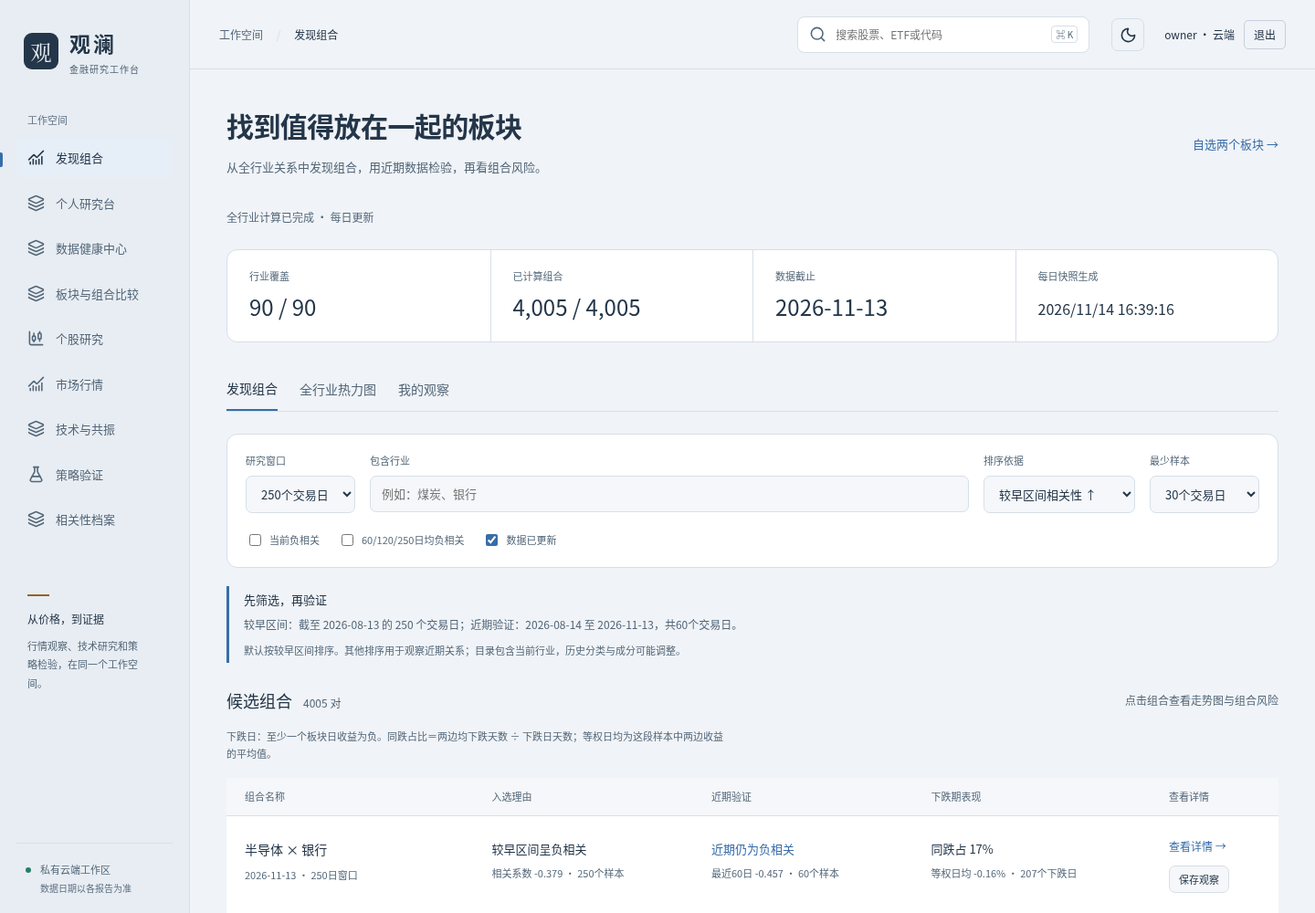
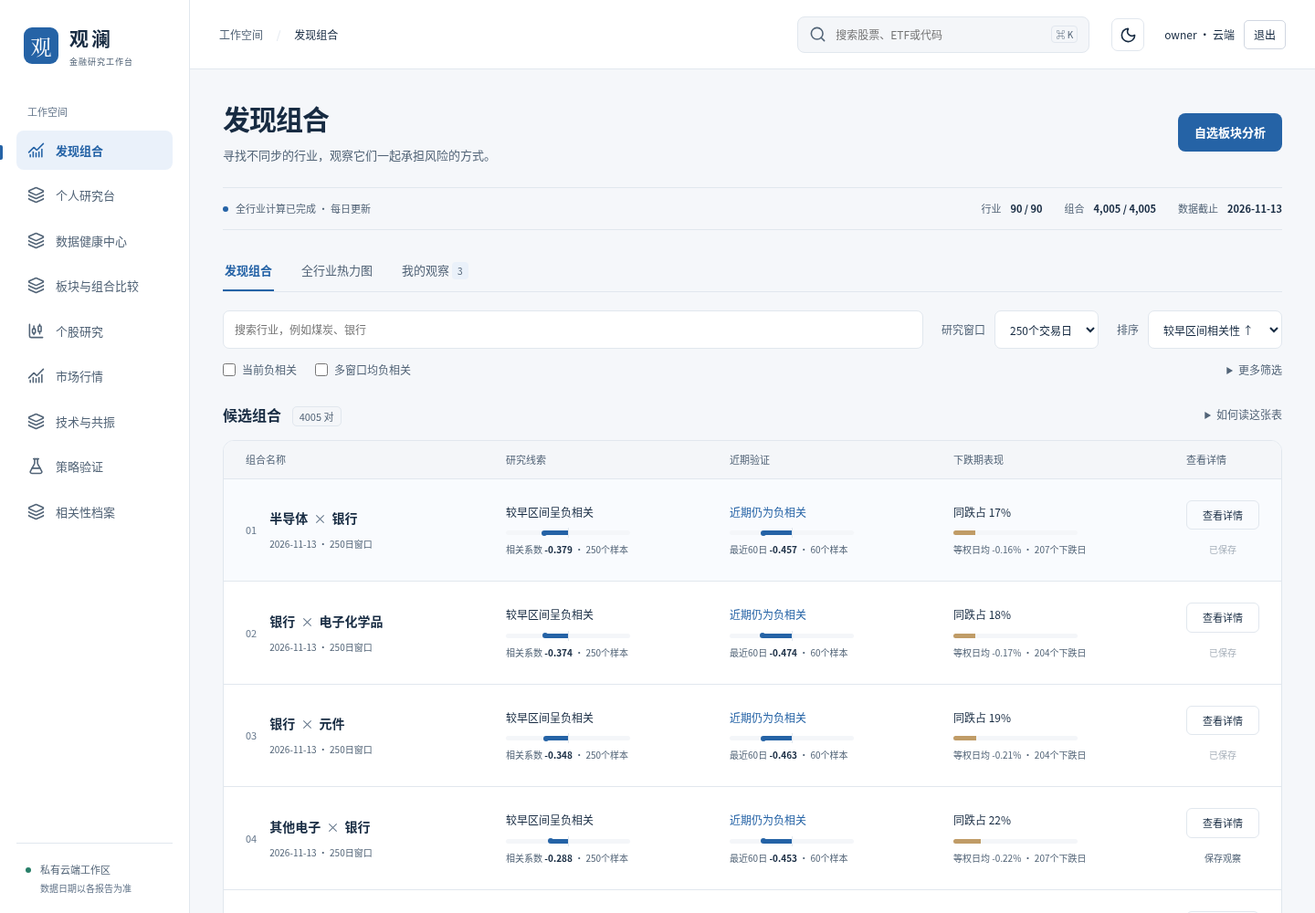
Redesign discovery research workspace with compact filters and visual evidence

diff --git a/app/static/discover/discover.css b/app/static/discover/discover.css
@@ -1,8 +1,4 @@
-.terminal-app .discovery-workspace{max-width:1440px;margin:76px 0 0 var(--ui-nav);padding:32px 40px 48px}.discovery-heading,.results-heading{display:flex;align-items:center;justify-content:space-between;gap:24px}.discovery-heading h1{font-size:30px;font-weight:600;letter-spacing:-.02em;margin:8px 0 12px}.discovery-heading p,.results-heading p{font-size:13px;line-height:1.8;color:var(--ui-muted)}.eyebrow{font-size:11px!important;letter-spacing:.12em}.discovery-heading>a{font-size:13px;white-space:nowrap}#discovery-status{font-size:12px;line-height:1.8;color:var(--ui-muted);margin:20px 0}.coverage{display:grid;grid-template-columns:1fr 1fr 1fr 1fr;border:1px solid var(--ui-border);background:var(--ui-panel);border-radius:12px;margin:24px 0}.coverage article{padding:20px 24px}.coverage article+article{border-left:1px solid var(--ui-border)}.coverage span{display:block;font-size:11px;color:var(--ui-muted)}.coverage strong{display:block;font-size:24px;font-weight:500;font-variant-numeric:tabular-nums;margin-top:8px}.coverage article:last-child strong{font-size:16px;margin-top:16px}.view-tabs{display:flex;border-bottom:1px solid var(--ui-border);gap:24px;margin:28px 0 24px}.view-tabs button{border:0;border-radius:0;background:transparent;padding:12px 0;color:var(--ui-muted);font-size:14px}.view-tabs button[aria-pressed=true]{color:var(--ui-text);border-bottom:2px solid var(--ui-accent)}#filters{display:flex;gap:16px;flex-wrap:wrap;padding:20px;background:var(--ui-panel);border:1px solid var(--ui-border);border-radius:12px}#filters label,#matrix label{font-size:11px;color:var(--ui-muted)}#filters select,#filters input:not([type=checkbox]),#matrix select{display:block;margin-top:8px;font-size:13px;min-height:40px}.search-label{flex:1;min-width:160px}.search-label input{width:100%}.checks{display:flex;gap:20px;width:100%;padding-top:4px;flex-wrap:wrap}.checks label{display:flex;align-items:center;gap:6px}.checks input{accent-color:var(--ui-accent)}.reading-guide{margin:20px 0 28px;border-left:3px solid var(--ui-accent);padding:4px 0 4px 16px}.reading-guide strong{font-size:13px;font-weight:500}.reading-guide p{font-size:12px;line-height:1.8;color:var(--ui-muted);margin:6px 0}.reading-guide small{font-size:11px;color:var(--ui-muted)}.results-heading{margin:24px 0 16px}.results-heading h2{font-size:18px;font-weight:500;margin:0}.results-heading>span,#result-count{font-size:12px;color:var(--ui-muted);margin-left:8px}.pair-row,.pair-header{display:grid;grid-template-columns:minmax(220px,1.7fr) repeat(3,minmax(80px,.7fr)) minmax(130px,1fr) 70px;align-items:center;gap:16px;padding:18px 20px;border-bottom:1px solid var(--ui-border)}.pair-header{font-size:11px;color:var(--ui-muted);background:var(--ui-panel-2);padding:12px 20px}.pair-row{background:var(--ui-panel);font-size:13px}.pair-row:hover{background:var(--ui-panel-2)}.pair-row a{color:var(--ui-text);font-weight:500}.pair-row small{display:block;color:var(--ui-muted);font-size:11px;line-height:1.7;margin-top:6px}.pair-row .value{font-size:19px;font-variant-numeric:tabular-nums;font-weight:500}.pair-row .negative{color:var(--ui-accent)}.pair-row .positive{color:var(--ui-gold)}.pair-row button{font-size:12px;padding:6px 10px}.cell-label{display:none}.pagination{display:flex;justify-content:flex-end;align-items:center;gap:16px;margin-top:20px;font-size:12px;color:var(--ui-muted)}.pagination button{font-size:12px}.source-details{margin-top:28px;padding:20px 0;border-top:1px solid var(--ui-border);color:var(--ui-muted);font-size:12px;line-height:1.8}.source-details summary{cursor:pointer}.source-details ul{max-height:220px;overflow:auto}.empty-result{padding:48px 24px;text-align:center;background:var(--ui-panel);border:1px dashed var(--ui-border);border-radius:12px;color:var(--ui-muted);font-size:14px}.matrix-legend{display:flex;align-items:center;gap:12px;font-size:12px;color:var(--ui-muted);margin:20px 0}.matrix-legend i{display:block;width:180px;height:8px;border-radius:4px;background:linear-gradient(90deg,#386da8,#eff2f6,#a4772d)}#matrix-scroll{overflow:auto;max-height:720px;border:1px solid var(--ui-border);background:var(--ui-panel);border-radius:12px}#matrix-canvas{display:block;cursor:crosshair}#matrix-readout{font-size:13px;color:var(--ui-muted);line-height:1.8}.watch-card{padding:24px;background:var(--ui-panel);border:1px solid var(--ui-border);border-radius:12px;margin-bottom:16px}.watch-card header{display:flex;justify-content:space-between;gap:16px;align-items:center}.watch-card header a{font-size:17px;font-weight:500}.watch-card p{font-size:13px;color:var(--ui-muted);line-height:1.8}.watch-card button{font-size:12px}.alert-row{border-left:3px solid var(--ui-gold);padding:8px 12px;font-size:13px;margin:8px 0}.alert-row.read{border-color:var(--ui-border);color:var(--ui-muted)}.watch-actions{display:flex;gap:8px}.watch-count{color:var(--ui-accent)}
-@media(max-width:1150px){.terminal-app .discovery-workspace{padding:24px}.pair-row,.pair-header{gap:12px;padding:16px 12px;grid-template-columns:minmax(160px,1.5fr) repeat(3,minmax(55px,.6fr)) minmax(95px,1fr) 56px}.coverage article{padding:16px}.coverage strong{font-size:20px}}
-@media(max-width:760px){.terminal-app .discovery-workspace{margin:64px 0 0;padding:24px 16px}.discovery-heading{display:block}.discovery-heading h1{font-size:26px}.coverage{grid-template-columns:1fr 1fr}.coverage article:nth-child(3){border-left:0}.coverage article:nth-child(n+3){border-top:1px solid var(--ui-border)}.view-tabs{gap:24px}.view-tabs button{font-size:13px}#filters{gap:12px;padding:16px}#filters>label{flex:1;min-width:120px}#filters select{width:100%}.checks{gap:12px}.results-heading{align-items:flex-start}.results-heading>span{display:none}.pair-header{display:none}.pair-row{grid-template-columns:1fr 1fr 1fr;gap:16px;padding:20px 16px;border:1px solid var(--ui-border);border-radius:12px;margin-bottom:12px}.pair-name{grid-column:1/-1}.pair-row .value{font-size:21px}.cell-label{display:block;font-size:10px;color:var(--ui-muted);margin-bottom:8px}.pair-state{grid-column:1/3;font-size:12px}.pair-row button{justify-self:end}.watch-card{padding:20px}.watch-card header{align-items:flex-start;flex-direction:column}.watch-actions{align-self:flex-end}.results-heading p{font-size:12px}.matrix-legend{font-size:11px}}
-/* Readable research rows: rationale, recent evidence and downside behavior. */
-.pair-row,.pair-header{grid-template-columns:minmax(180px,1.25fr) minmax(160px,1.1fr) minmax(160px,1.1fr) minmax(180px,1.2fr) 100px;gap:20px}.pair-row{padding-top:24px;padding-bottom:24px;align-items:start}.research-cell strong{font-size:13px;font-weight:500;line-height:1.8}.pair-name a{font-size:14px;line-height:1.8}.pair-row small{line-height:1.8}.pair-actions{display:flex;flex-direction:column;align-items:flex-start;gap:12px}.pair-actions .detail-link{color:var(--ui-accent);font-size:12px;white-space:nowrap}.pair-actions button{font-size:11px}.downside-definition{font-size:11px;line-height:1.8;color:var(--ui-muted);margin:0 0 16px;max-width:90ch}
-@media(max-width:1150px){.pair-row,.pair-header{grid-template-columns:minmax(120px,1.1fr) minmax(120px,1fr) minmax(120px,1fr) minmax(145px,1.1fr) 86px;gap:12px}.pair-name a{font-size:13px}.research-cell strong{font-size:12px}}
-@media(max-width:760px){.pair-row{grid-template-columns:1fr;gap:16px;padding:20px}.pair-name{grid-column:auto;border-bottom:1px solid var(--ui-border);padding-bottom:16px}.pair-name a{font-size:17px}.research-cell{display:grid;grid-template-columns:88px minmax(0,1fr);gap:0 12px;align-items:baseline}.research-cell .cell-label{font-size:11px;margin:0;grid-row:1/3}.research-cell strong{font-size:13px}.research-cell small{grid-column:2;margin-top:4px}.pair-actions{flex-direction:row;align-items:center;justify-content:space-between;border-top:1px solid var(--ui-border);padding-top:16px}.pair-actions .detail-link{font-size:13px}.pair-header{display:none}}
-@media(min-width:761px){.pair-row,.pair-header{grid-template-columns:minmax(0,1.25fr) minmax(0,1.1fr) minmax(0,1.1fr) minmax(0,1.2fr) 86px}.pair-row>div{min-width:0;overflow-wrap:anywhere}}
+/* Research desk: compact context, aligned evidence, one primary action. */
+.terminal-app .discovery-workspace{max-width:1680px;margin:76px 0 0 var(--ui-nav);padding:32px 36px 40px}.discovery-heading{display:flex;justify-content:space-between;align-items:center;gap:24px;margin-bottom:24px}.discovery-heading h1{font-size:30px;font-weight:650;letter-spacing:-1px;margin:0 0 8px}.discovery-heading p{font-size:13px;color:var(--ui-muted);margin:0;line-height:1.8}.discovery-heading>a{display:inline-flex;align-items:center;min-height:42px;padding:10px 18px;background:var(--ui-accent);color:var(--ui-panel);border-radius:8px;white-space:nowrap;font-size:13px;font-weight:550}.discovery-heading>a:hover{text-decoration:none;filter:brightness(.93)}.coverage{display:flex;align-items:center;gap:24px;padding:14px 0;border-top:1px solid var(--ui-border);border-bottom:1px solid var(--ui-border);font-size:11px;color:var(--ui-muted)}.sync-state{display:flex;align-items:center;gap:8px;margin-right:auto;min-width:0}.status-dot{width:6px;height:6px;border-radius:50%;background:var(--ui-accent);flex:none}.coverage article{display:flex;gap:10px;white-space:nowrap}.coverage strong{font-weight:550;color:var(--ui-text);font-variant-numeric:tabular-nums}.view-tabs{display:flex;gap:28px;margin:22px 0 0;border-bottom:1px solid var(--ui-border)}.view-tabs button{font-size:13px;border:0;border-bottom:2px solid transparent;background:transparent;border-radius:0;padding:12px 2px;color:var(--ui-muted)}.view-tabs button[aria-pressed=true]{color:var(--ui-accent);border-bottom-color:var(--ui-accent);font-weight:600}#watch-count:not(:empty){background:var(--ui-accent-soft);padding:2px 6px;border-radius:4px;font-size:10px}#filters{padding:20px 0 16px}.primary-filters{display:flex;align-items:center;gap:20px}.primary-filters>label{display:flex;align-items:center;gap:10px;white-space:nowrap;font-size:12px}.primary-filters .search-label{flex:1}.primary-filters input{width:100%;min-height:42px;background:var(--ui-panel)}.primary-filters select{font-size:12px;min-height:42px;background:var(--ui-panel)}.filter-options{display:flex;align-items:center;justify-content:space-between;margin-top:14px;gap:16px}.checks{display:flex;gap:20px;flex-wrap:wrap}.checks label{display:flex;align-items:center;gap:7px;font-size:12px}.checks input,.advanced-filters input{accent-color:var(--ui-accent);width:14px;height:14px;margin:0}.advanced-filters,.method-guide{position:relative}.advanced-filters summary,.method-guide summary{cursor:pointer;font-size:12px;white-space:nowrap}.advanced-filters>div,.method-guide>div{position:absolute;right:0;top:30px;z-index:10;background:var(--ui-panel);border:1px solid var(--ui-border);box-shadow:var(--ui-shadow);border-radius:10px;padding:20px;width:340px;max-width:calc(100vw - 32px);font-size:12px;line-height:1.9}.advanced-filters>div{display:grid;gap:16px;width:260px}.advanced-filters label{display:flex;gap:10px;align-items:center}.advanced-filters select{font-size:12px}.results-heading{display:flex;align-items:center;justify-content:space-between;gap:16px;margin:12px 0 16px}.results-heading h2{font-size:16px;margin:0;font-weight:600}.results-heading p{font-size:12px;color:var(--ui-muted)}#result-count{font-size:11px;font-weight:400;background:var(--ui-panel-2);border:1px solid var(--ui-border);border-radius:5px;padding:2px 7px;margin-left:8px;color:var(--ui-muted)}.method-guide p{margin:0 0 12px}.method-guide p:last-child{margin-bottom:0}#pair-list{border:1px solid var(--ui-border);border-radius:12px;overflow:hidden;background:var(--ui-panel)}.pair-row,.pair-header{display:grid;grid-template-columns:minmax(0,1.3fr) minmax(0,1.1fr) minmax(0,1.1fr) minmax(0,1.15fr) 80px;gap:24px;align-items:center;padding:23px 24px}.pair-header{padding-top:12px;padding-bottom:12px;background:var(--ui-panel-2);font-size:11px;color:var(--ui-muted);border-bottom:1px solid var(--ui-border)}.pair-row+.pair-row{border-top:1px solid var(--ui-border)}.pair-row:hover{background:color-mix(in srgb,var(--ui-accent-soft) 28%,var(--ui-panel))}.pair-row>div{min-width:0}.pair-name{display:flex;align-items:center;gap:14px}.pair-rank{font-size:11px;color:var(--ui-subtle);font-variant-numeric:tabular-nums;flex:none}.pair-name a{font-size:14px;font-weight:600;color:var(--ui-text);line-height:1.7}.pair-name a span{color:var(--ui-subtle);font-weight:400;margin:0 3px}.pair-row small{display:block;font-size:10px;color:var(--ui-muted);line-height:1.8;margin-top:7px}.pair-row small b{font-weight:550;color:var(--ui-text);font-variant-numeric:tabular-nums}.research-cell strong{font-size:12px;font-weight:500;line-height:1.8}.cell-label{display:none}.terminal-app .research-cell .negative{color:var(--ui-accent)}.terminal-app .research-cell .positive{color:var(--ui-gold)}.correlation-track{display:block;position:relative;width:100%;max-width:136px;height:5px;background:var(--ui-panel-2);border-radius:3px;margin-top:10px}.correlation-track .zero{position:absolute;left:50%;top:-3px;width:1px;height:11px;background:var(--ui-border)}.correlation-track .range{position:absolute;height:5px;top:0}.correlation-track .inverse{background:var(--ui-accent)}.correlation-track .together{background:var(--ui-gold)}.correlation-track .marker{position:absolute;width:6px;height:6px;border-radius:50%;top:-.5px;transform:translateX(-50%)}.downside-track{display:block;width:100%;max-width:136px;height:5px;border-radius:3px;background:var(--ui-panel-2);margin-top:10px;overflow:hidden}.downside-track i{display:block;height:100%;background:var(--ui-gold);opacity:.65}.pair-actions{display:flex;flex-direction:column;gap:10px;align-items:stretch;text-align:center}.pair-actions .detail-link{border:1px solid var(--ui-border);padding:7px 9px;border-radius:6px;font-size:11px;color:var(--ui-text);font-weight:500;white-space:nowrap}.pair-actions .detail-link:hover{background:var(--ui-accent);color:var(--ui-panel);border-color:var(--ui-accent);text-decoration:none}.pair-actions button{font-size:10px;border:0;background:transparent;color:var(--ui-muted);padding:4px}.pagination{display:flex;justify-content:flex-end;align-items:center;gap:16px;margin-top:20px;font-size:12px;color:var(--ui-muted)}.pagination button{font-size:12px}.source-details{margin-top:28px;padding:20px 0;border-top:1px solid var(--ui-border);color:var(--ui-muted);font-size:12px;line-height:1.8}.source-details summary{cursor:pointer}.source-details ul{max-height:220px;overflow:auto}.empty-result{padding:48px 24px;text-align:center;color:var(--ui-muted);font-size:14px}.matrix-legend{display:flex;align-items:center;gap:12px;font-size:12px;color:var(--ui-muted);margin:20px 0}.matrix-legend i{display:block;width:180px;height:8px;border-radius:4px;background:linear-gradient(90deg,#386da8,#eff2f6,#a4772d)}#matrix-scroll{overflow:auto;max-height:720px;border:1px solid var(--ui-border);background:var(--ui-panel);border-radius:12px}#matrix-canvas{display:block;cursor:crosshair}#matrix-readout{font-size:13px;color:var(--ui-muted);line-height:1.8}.watch-card{padding:24px;background:var(--ui-panel);border:1px solid var(--ui-border);border-radius:12px;margin-bottom:16px}.watch-card header{display:flex;justify-content:space-between;gap:16px;align-items:center}.watch-card header a{font-size:17px;font-weight:500}.watch-card p{font-size:13px;color:var(--ui-muted);line-height:1.8}.watch-card button{font-size:12px}.alert-row{border-left:3px solid var(--ui-gold);padding:8px 12px;font-size:13px;margin:8px 0}.alert-row.read{border-color:var(--ui-border);color:var(--ui-muted)}.watch-actions{display:flex;gap:8px}
+@media(max-width:1150px){.terminal-app .discovery-workspace{padding:24px}.coverage{gap:16px;flex-wrap:wrap}.coverage .sync-state{flex-basis:100%}.primary-filters{gap:12px}.primary-filters>label{display:block}.primary-filters select{display:block;margin-top:6px}.primary-filters .search-label{align-self:end}.pair-row,.pair-header{gap:14px;padding-left:16px;padding-right:16px;grid-template-columns:minmax(0,1.2fr) minmax(0,1fr) minmax(0,1fr) minmax(0,1.1fr) 72px}.pair-rank{display:none}.pair-name a{font-size:13px}.research-cell strong{font-size:11px}.pair-row small{font-size:10px}}
+@media(max-width:760px){.terminal-app .discovery-workspace{margin:64px 0 0;padding:24px 16px}.discovery-heading{align-items:flex-start;gap:12px;margin-bottom:20px}.discovery-heading h1{font-size:26px}.discovery-heading p{font-size:12px;max-width:22ch}.discovery-heading>a{font-size:11px;padding:9px 12px;min-height:38px}.coverage{gap:10px 18px;font-size:10px}.coverage article{gap:6px}.view-tabs{gap:24px;margin-top:12px}.view-tabs button{font-size:12px}.primary-filters{flex-wrap:wrap;gap:12px}.primary-filters .search-label{flex-basis:100%}.primary-filters>label{flex:1;min-width:0}.primary-filters select{width:100%}.filter-options{gap:8px}.checks{gap:12px}.checks label{font-size:11px}.advanced-filters summary{font-size:11px}.results-heading{margin-top:8px}#pair-list{border:0;background:transparent;border-radius:0}.pair-header{display:none}.pair-row,.pair-row+.pair-row{grid-template-columns:1fr 1fr;gap:16px 20px;border:1px solid var(--ui-border);border-radius:12px;background:var(--ui-panel);margin-bottom:12px;padding:20px}.pair-name{grid-column:1/-1;padding-bottom:14px;border-bottom:1px solid var(--ui-border)}.pair-rank{display:block}.pair-name a{font-size:16px}.pair-name small{margin-top:4px}.cell-label{display:block;font-size:10px;color:var(--ui-muted);margin-bottom:5px}.research-cell strong{font-size:12px}.research-cell small{font-size:10px}.downside-cell{grid-column:1/2}.pair-actions{align-self:end;gap:6px}.pair-actions .detail-link{font-size:12px;padding:10px}.pair-actions button{font-size:11px;min-height:28px}.watch-card{padding:20px}.watch-card header{align-items:flex-start;flex-direction:column}.watch-actions{align-self:flex-end}.matrix-legend{font-size:11px}}

diff --git a/app/static/shared/theme.css b/app/static/shared/theme.css
@@ -1,6 +1,6 @@
 /* Shared application tokens. Charts and all research surfaces consume these roles. */
 :root{--ui-bg:#101923;--ui-panel:#17222e;--ui-panel-2:#1d2a38;--ui-sidebar:#0c141e;--ui-text:#e8edf3;--ui-muted:#a0aeba;--ui-subtle:#8696a6;--ui-border:#2b3948;--ui-accent:#81a9e8;--ui-accent-soft:#21344b;--ui-green:#77baa6;--ui-red:#ed9298;--ui-gold:#d4ad76;--ui-shadow:0 20px 70px #0003;--ui-radius:12px;--ui-nav:208px;color-scheme:dark;font-family:"Noto Sans CJK SC","Microsoft YaHei",sans-serif}
-:root[data-theme=light]{--ui-bg:#f0f3f7;--ui-panel:#fff;--ui-panel-2:#f5f7fa;--ui-sidebar:#e8edf3;--ui-text:#243649;--ui-muted:#536779;--ui-subtle:#5f7284;--ui-border:#d6dfe8;--ui-accent:#386da8;--ui-accent-soft:#e6eef8;--ui-green:#287f69;--ui-red:#b33e4b;--ui-gold:#916522;--ui-shadow:0 20px 70px #20374b15;color-scheme:light}
+:root[data-theme=light]{--ui-bg:#f5f7fa;--ui-panel:#fff;--ui-panel-2:#f4f6f9;--ui-sidebar:#fff;--ui-text:#172b42;--ui-muted:#526477;--ui-subtle:#63758a;--ui-border:#e1e7ee;--ui-accent:#2563a6;--ui-accent-soft:#eaf1fa;--ui-green:#287f69;--ui-red:#b33e4b;--ui-gold:#a46b18;--ui-shadow:0 20px 70px #20374b15;color-scheme:light}
 *{box-sizing:border-box}.terminal-app{margin:0;background:var(--ui-bg);color:var(--ui-text);font-family:"Noto Sans CJK SC","Microsoft YaHei",sans-serif;font-size:14px;line-height:1.5}.terminal-app a{color:var(--ui-accent);text-decoration:none;text-underline-offset:4px}.terminal-app a:hover{text-decoration:underline}.terminal-app button,.terminal-app input,.terminal-app select{font:inherit;color:var(--ui-text);border:1px solid var(--ui-border);background:var(--ui-panel-2);border-radius:7px;padding:9px 12px;min-width:0}.terminal-app button{cursor:pointer}.terminal-app button:hover{border-color:var(--ui-accent);background:var(--ui-accent-soft)}.terminal-app button:disabled{opacity:.5;cursor:not-allowed}.terminal-app :is(button,a,input,select,summary):focus-visible{outline:2px solid var(--ui-accent);outline-offset:3px}.terminal-app input{caret-color:var(--ui-accent)}.terminal-app ::selection{background:var(--ui-accent);color:var(--ui-bg)}.terminal-app *{scrollbar-width:thin;scrollbar-color:var(--ui-border) transparent}.terminal-app .ui-icon{display:inline-block;width:19px;height:19px;flex:none;background:currentColor;mask:var(--icon) center/contain no-repeat;-webkit-mask:var(--icon) center/contain no-repeat}.terminal-app .visually-hidden{position:absolute;width:1px;height:1px;overflow:hidden;clip-path:inset(50%)}.terminal-app .terminal-sidebar{position:fixed;inset:0 auto 0 0;width:var(--ui-nav);z-index:50;background:var(--ui-sidebar);border-right:1px solid var(--ui-border);padding:30px 18px 20px;display:flex;flex-direction:column}.terminal-brand{display:flex;gap:12px;align-items:center;color:var(--ui-text)!important;font-size:23px;font-weight:550;letter-spacing:3px;padding:0 8px;text-decoration:none!important}.brand-mark{display:grid;place-items:center;width:38px;height:40px;background:var(--ui-text);color:var(--ui-sidebar);font:23px "Noto Serif CJK SC","Songti SC",serif;border-radius:9px;letter-spacing:0}.terminal-brand small{display:block;font-size:10px;letter-spacing:1px;color:var(--ui-muted);margin-top:3px;font-weight:400}.nav-label{font-size:11px;color:var(--ui-subtle);margin:40px 12px 12px}.terminal-sidebar nav{display:flex;flex-direction:column;gap:6px}.terminal-sidebar nav a{display:flex;gap:12px;align-items:center;padding:12px;color:var(--ui-muted);border-radius:8px;font-size:13px;position:relative;text-decoration:none}.terminal-sidebar nav a:hover{background:var(--ui-panel)}.terminal-sidebar nav a[aria-current]{color:var(--ui-text);background:var(--ui-accent-soft)}.terminal-sidebar nav a[aria-current]:before{content:"";height:16px;width:3px;position:absolute;left:-18px;top:16px;background:var(--ui-accent);border-radius:0 2px 2px 0}.sidebar-guide{margin-top:44px;padding:16px 12px;font-size:12px;color:var(--ui-muted)}.guide-line{display:block;width:24px;height:2px;background:var(--ui-gold);margin-bottom:16px}.sidebar-guide b{color:var(--ui-text);font-weight:500}.sidebar-guide p{font-size:11px;line-height:1.9;max-width:20ch;margin-top:10px}.sidebar-footer{display:flex;gap:10px;align-items:flex-start;margin-top:auto;padding:20px 10px 0;border-top:1px solid var(--ui-border);font-size:11px;color:var(--ui-muted)}.sidebar-footer small{display:block;font-size:10px;color:var(--ui-subtle);margin-top:5px}.connection-dot{width:6px;height:6px;border-radius:50%;background:var(--ui-green);margin-top:6px;flex:none}.terminal-app .terminal-header{position:fixed;inset:0 0 auto var(--ui-nav);height:76px;z-index:40;border-bottom:1px solid var(--ui-border);background:var(--ui-bg);display:flex;align-items:center;gap:24px;padding:0 32px}.terminal-breadcrumb{font-size:12px;color:var(--ui-muted);white-space:nowrap}.terminal-breadcrumb span{color:var(--ui-border);margin:0 12px}.terminal-breadcrumb b{font-weight:500;color:var(--ui-text)}.global-search{margin-left:auto;position:relative;display:flex;align-items:center;gap:10px;width:320px;min-width:140px;color:var(--ui-muted);border:1px solid var(--ui-border);border-radius:8px;background:var(--ui-panel);padding:0 12px}.terminal-app .global-search input{background:none;border:0;padding:10px 0;width:100%;font-size:12px;outline-offset:0}.global-search kbd{border:1px solid var(--ui-border);border-radius:4px;font-size:10px;padding:1px 4px;white-space:nowrap;font-family:inherit}.terminal-header .terminal-tools{display:flex;gap:12px;align-items:center;flex:none}.terminal-app .icon-button{width:36px;height:36px;padding:8px;display:grid;place-items:center;background:transparent}.terminal-app .mobile-menu{display:none}#global-search-results{position:absolute;left:0;right:0;top:48px;max-height:440px;overflow:auto;background:var(--ui-panel);box-shadow:var(--ui-shadow);border:1px solid var(--ui-border);border-radius:10px;padding:6px}#global-search-results a{display:flex;justify-content:space-between;gap:12px;padding:12px;color:var(--ui-text);border-radius:6px;text-decoration:none;font-size:12px}#global-search-results a:hover,#global-search-results a.selected{background:var(--ui-accent-soft)}#global-search-results small{display:block;margin-top:3px;color:var(--ui-muted);font-size:11px}#global-search-results b{font-weight:500}#global-search-results em{font-style:normal;font-size:10px;color:var(--ui-subtle)}#global-search-results p{font-size:12px;padding:12px}.nav-backdrop{display:none}.terminal-app>header:not(.terminal-header){display:none}.terminal-app>main{margin:76px 0 0 var(--ui-nav);padding:32px;max-width:none;min-width:0}.terminal-app .eyebrow{display:none}.terminal-app .hero{margin-bottom:24px;align-items:center}.terminal-app h1{font-size:27px;line-height:1.4;letter-spacing:-.02em;font-weight:550;margin:0 0 8px;color:var(--ui-text)}.terminal-app h1 span{color:var(--ui-muted)}.terminal-app h2{font-size:17px;font-weight:550;color:var(--ui-text);margin:0 0 16px}.terminal-app h3{font-size:13px;font-weight:550;color:var(--ui-text)}.terminal-app .hero p{color:var(--ui-muted);font-size:12px;margin:8px 0;line-height:1.8}.terminal-app .panel{background:var(--ui-panel);border:1px solid var(--ui-border);border-radius:var(--ui-radius);padding:24px;box-shadow:none}.terminal-app .small,.terminal-app .caption{color:var(--ui-muted);font-size:12px}.terminal-app table{color:var(--ui-text);font-size:12px}.terminal-app th{background:var(--ui-panel-2);color:var(--ui-muted);font-size:11px}.terminal-app td{border-color:var(--ui-border)}.terminal-app th,.terminal-app td{padding:13px 14px}.terminal-app td small{color:var(--ui-subtle)}.terminal-app .positive{color:var(--ui-red)}.terminal-app .negative{color:var(--ui-green)}.terminal-app .scroll{overflow:auto}.terminal-app .chart svg text,.terminal-app .mini-chart svg text{fill:var(--ui-muted)}.terminal-app .chart svg .grid,.terminal-app .chart svg .tick,.terminal-app .mini-chart svg .tick{stroke:var(--ui-border)}.terminal-app .chart-readout{color:var(--ui-muted)}.terminal-app details summary{color:var(--ui-muted);font-size:12px}.terminal-app footer{color:var(--ui-subtle);font-size:11px;border-top:1px solid var(--ui-border);padding-top:20px;margin-top:24px}.terminal-app label{color:var(--ui-muted)}.terminal-app .notice{color:var(--ui-muted);border-color:var(--ui-gold);font-size:11px}.terminal-app .badge{color:var(--ui-accent);background:var(--ui-accent-soft);border-radius:5px}.terminal-app .badge.low{color:var(--ui-gold);background:var(--ui-panel-2)}.terminal-app #error{color:var(--ui-red);background:var(--ui-panel);border-color:var(--ui-red)}.terminal-app .error{color:var(--ui-red)}.terminal-app pre{color:var(--ui-muted);background:var(--ui-panel-2);border-color:var(--ui-border)}[hidden]{display:none!important}
 /* Technical research: retain complete data, reduce long-form visual weight. */
 .terminal-app .asof span,.terminal-app .asof small{color:var(--ui-muted)}.terminal-app .asof{font-size:11px}.terminal-app .selection-panel{padding:20px 24px}.terminal-app .selection-chip{color:var(--ui-text);background:var(--ui-panel-2);border-color:var(--ui-border)}.terminal-app .study-note{color:var(--ui-muted);background:var(--ui-panel-2);border-color:var(--ui-border)}.terminal-app .learning article,.terminal-app .level-box{background:var(--ui-panel-2);border-color:var(--ui-border)}.terminal-app .learning p,.terminal-app .observation p,.terminal-app .co-layout p,.terminal-app .price-head>span{color:var(--ui-muted)}.terminal-app .observation,.terminal-app .mini-chart{border-color:var(--ui-border)}.terminal-app #stock-rows tr:hover,.terminal-app #stock-rows tr.active{background:var(--ui-accent-soft)}.terminal-app #stock-rows tr.active td:first-child{box-shadow:inset 3px 0 var(--ui-accent)}.terminal-app .chart-layout{grid-template-columns:minmax(0,2.8fr) minmax(240px,1fr);gap:20px}
@@ -11,3 +11,6 @@
 @media(max-width:760px){:root{--ui-nav:0px}.terminal-app .terminal-sidebar{width:220px;transform:translateX(-100%);transition:transform .2s}.terminal-app .terminal-sidebar.is-open{transform:translateX(0)}.terminal-app .terminal-header{left:0;height:64px;padding:0 16px;gap:12px}.terminal-app .mobile-menu{display:grid}.terminal-app .nav-backdrop:not([hidden]){display:block;position:fixed;inset:0;background:#0007;border:0;z-index:45;border-radius:0}.terminal-app>main{margin:64px 0 0;padding:24px 16px}.terminal-app .terminal-tools{gap:6px}.terminal-tools>span{font-size:0!important;margin:0!important;gap:0!important}.terminal-tools>span>span{display:none}.terminal-tools>span button{font-size:11px}.terminal-app .global-search{width:auto;min-width:0}.global-search kbd{display:none}.terminal-app .global-search input{font-size:11px}.terminal-app h1{font-size:23px}.terminal-app .panel{padding:18px}.terminal-app .hero{display:block}.terminal-app .asof{text-align:left;min-width:0;margin-top:16px}.terminal-app .asof button{justify-self:start}.terminal-app #gl-desk{margin-top:64px;width:100%}.terminal-app #gl-desk .gl-content{padding:16px}.terminal-app #gl-desk .gl-header{padding:16px}.terminal-app #gl-desk .gl-index-strip{margin:0 16px}.terminal-app #gl-desk .gl-workgrid{grid-template-columns:minmax(0,1fr)}.terminal-app #gl-desk .gl-watch-panel{max-height:440px}.terminal-app #gl-desk .gl-chart{height:320px}.terminal-app #gl-desk .gl-index-strip strong{font-size:18px}.terminal-app .chart-layout{display:block}.terminal-app .chart-layout>.panel{margin-bottom:20px}}
 @media(prefers-reduced-motion:reduce){.terminal-app *{scroll-behavior:auto!important;transition:none!important;animation:none!important}}
 .terminal-app #technical-selection-toggle{background:var(--ui-accent-soft);color:var(--ui-accent);border-color:var(--ui-border)}.terminal-app #technical-quick-switch{font-size:12px;max-width:160px}.terminal-app .technical-chart-first{margin-top:20px}.terminal-app #analyze-selection{background:var(--ui-accent);color:var(--ui-bg);border-color:var(--ui-accent)}.terminal-app .price-head>b{font-size:32px}.terminal-app .co-layout h3{color:var(--ui-text)}.terminal-app #search-results button{background:var(--ui-panel-2);color:var(--ui-text);border-color:var(--ui-border)}.terminal-app .observations .level-box{padding:14px;border-radius:8px}.terminal-app .learning article{padding:18px;border-radius:8px}.terminal-app .learning h3{margin-top:0}.terminal-app .chart-legend{color:var(--ui-muted)}
+
+/* Quiet navigation leaves the research surface in focus. */
+.terminal-app .terminal-sidebar{padding-top:26px}.terminal-sidebar nav a[aria-current]{color:var(--ui-accent);font-weight:550}.terminal-app .terminal-header{background:var(--ui-panel)}.sidebar-guide{display:none}.terminal-brand{font-size:21px}.terminal-brand small{font-size:9px}.terminal-app .brand-mark{background:var(--ui-accent);color:#fff}.terminal-app .global-search{background:var(--ui-panel-2)}

diff --git a/app/static/discover/index.html b/app/static/discover/index.html
@@ -1,1 +1,1 @@
-<!doctype html><html lang="zh-CN"><head><meta charset="utf-8"><meta name="viewport" content="width=device-width,initial-scale=1"><title>发现组合 · 观澜</title><link rel="stylesheet" href="/static/shared/theme.css"><link rel="stylesheet" href="/static/discover/discover.css?v=20261114d"><script defer src="/static/shared/shell.js"></script><script defer src="/static/discover/discover.js?v=20261114d"></script></head><body><main class="discovery-workspace"><header class="discovery-heading"><div><p class="eyebrow">行业关联 / DAILY RESEARCH</p><h1>找到值得放在一起的板块</h1><p>从全行业关系中发现组合，用近期数据检验，再看组合风险。</p></div><a href="/compare">自选两个板块 →</a></header><div id="discovery-status" role="status">正在读取每日研究结果…</div><section class="coverage"><article><span>行业覆盖</span><strong id="coverage-count">—</strong></article><article><span>已计算组合</span><strong id="pair-count">—</strong></article><article><span>数据截止</span><strong id="asof">—</strong></article><article><span>每日快照生成</span><strong id="generated">—</strong></article></section><nav class="view-tabs" aria-label="研究视图"><button type="button" data-view="candidates" aria-pressed="true">发现组合</button><button type="button" data-view="matrix" aria-pressed="false">全行业热力图</button><button type="button" data-view="watch" aria-pressed="false">我的观察 <span id="watch-count"></span></button></nav><section id="candidates"><form id="filters"><label>研究窗口<select id="window"><option value="60">60个交易日</option><option value="120">120个交易日</option><option value="250" selected>250个交易日</option></select></label><label class="search-label">包含行业<input id="search" placeholder="例如：煤炭、银行" autocomplete="off"></label><label>排序依据<select id="sort"><option value="formation">较早区间相关性 ↑</option><option value="correlation">截至最新的相关性 ↑</option><option value="validation">最近60日相关性 ↑</option></select></label><label>最少样本<select id="min-samples"><option value="30">30个交易日</option><option value="60">60个交易日</option><option value="120">120个交易日</option><option value="250">250个交易日</option></select></label><div class="checks"><label><input type="checkbox" id="negative"> 当前负相关</label><label><input type="checkbox" id="stable"> 60/120/250日均负相关</label><label><input type="checkbox" id="current-only" checked> 数据已更新</label></div></form><div class="reading-guide"><strong>先筛选，再验证</strong><p id="period-explanation"></p><small>默认按较早区间排序。其他排序用于观察近期关系；目录包含当前行业，历史分类与成分可能调整。</small></div><div class="results-heading"><h2>候选组合 <span id="result-count"></span></h2><span>点击组合查看走势图与组合风险</span></div><p class="downside-definition">下跌日：至少一个板块日收益为负。同跌占比＝两边均下跌天数 ÷ 下跌日天数；等权日均为这段样本中两边收益的平均值。</p><div id="pair-list"></div><div class="pagination"><button id="previous" type="button">上一页</button><span id="page-info"></span><button id="next" type="button">下一页</button></div><details class="source-details"><summary>采集进度与数据口径</summary><p>同花顺行业指数 · 简单日收益率 · 缺失交易日不补价 · 每日缓存 · 统计可能有延迟</p><p>列表比较的是收益率相关性；协方差和完整指标可进入组合详情查看。</p><div id="source-errors"></div></details></section><section id="matrix" hidden><div class="results-heading"><div><h2>一张图，看全行业的关系</h2><p>蓝色偏负相关，金色偏正相关，灰色为样本不足。点击交叉格进入比较。</p></div><label>研究窗口<select id="matrix-window"><option value="60">60日</option><option value="120">120日</option><option value="250" selected>250日</option></select></label></div><div class="matrix-legend"><span>−1 反向</span><i></i><span>+1 同向</span></div><div id="matrix-scroll"><canvas id="matrix-canvas" role="img" aria-label="行业相关性矩阵，候选列表提供相同组合的可访问入口"></canvas></div><p id="matrix-readout" role="status">移动到交叉格查看行业和相关系数，也可在候选列表中搜索。</p></section><section id="watch" hidden><div class="results-heading"><div><h2>我的观察</h2><p>每日结果对比上次观察；相关性方向、数据状态、波动率明显变化时显示提醒。</p></div><button type="button" id="refresh-watch">检查变化</button></div><div id="watch-list"></div></section><footer>历史研究，不构成投资建议。相关性会随区间变化。</footer></main></body></html>
+<!doctype html><html lang="zh-CN"><head><meta charset="utf-8"><meta name="viewport" content="width=device-width,initial-scale=1"><title>发现组合 · 观澜</title><link rel="stylesheet" href="/static/shared/theme.css"><link rel="stylesheet" href="/static/discover/discover.css?v=20261114e"><script defer src="/static/shared/shell.js"></script><script defer src="/static/discover/discover.js?v=20261114e"></script></head><body><main class="discovery-workspace"><header class="discovery-heading"><div><h1>发现组合</h1><p>寻找不同步的行业，观察它们一起承担风险的方式。</p></div><a href="/compare">自选板块分析</a></header><section class="coverage" aria-label="数据概况"><div class="sync-state"><span class="status-dot" aria-hidden="true"></span><span id="discovery-status" role="status">正在读取每日研究结果…</span></div><article><span>行业</span><strong id="coverage-count">—</strong></article><article><span>组合</span><strong id="pair-count">—</strong></article><article><span>数据截止</span><strong id="asof">—</strong></article></section><nav class="view-tabs" aria-label="研究视图"><button type="button" data-view="candidates" aria-pressed="true">发现组合</button><button type="button" data-view="matrix" aria-pressed="false">全行业热力图</button><button type="button" data-view="watch" aria-pressed="false">我的观察 <span id="watch-count"></span></button></nav><section id="candidates"><form id="filters"><div class="primary-filters"><label class="search-label"><span class="visually-hidden">包含行业</span><input id="search" placeholder="搜索行业，例如煤炭、银行" autocomplete="off"></label><label>研究窗口<select id="window"><option value="60">60个交易日</option><option value="120">120个交易日</option><option value="250" selected>250个交易日</option></select></label><label>排序<select id="sort"><option value="formation">较早区间相关性 ↑</option><option value="correlation">当前相关性 ↑</option><option value="validation">最近60日相关性 ↑</option></select></label></div><div class="filter-options"><div class="checks"><label><input type="checkbox" id="negative"> 当前负相关</label><label><input type="checkbox" id="stable"> 多窗口均负相关</label></div><details class="advanced-filters"><summary>更多筛选</summary><div><label>最少样本<select id="min-samples"><option value="30">30个交易日</option><option value="60">60个交易日</option><option value="120">120个交易日</option><option value="250">250个交易日</option></select></label><label><input type="checkbox" id="current-only" checked> 仅看已更新数据</label></div></details></div></form><div class="results-heading"><h2>候选组合 <span id="result-count"></span></h2><details class="method-guide"><summary>如何读这张表</summary><div><p id="period-explanation"></p><p>默认按较早区间排序，再用最近60日检验。蓝色表示负相关，琥珀色表示正相关；刻度范围为 −1 至 +1，中线为零。</p><p>下跌日：至少一个板块日收益为负。同跌占比＝两边均下跌天数 ÷ 下跌日天数；等权日均为这段样本中两边收益的平均值。</p><p>目录包含当前行业，历史分类与成分可能调整。</p></div></details></div><div id="pair-list"></div><div class="pagination"><button id="previous" type="button">上一页</button><span id="page-info"></span><button id="next" type="button">下一页</button></div><details class="source-details"><summary>数据来源与采集详情</summary><p>统计生成于 <span id="generated">—</span></p><p>同花顺行业指数 · 简单日收益率 · 缺失交易日不补价 · 每日缓存 · 统计可能有延迟</p><p>列表比较的是收益率相关性；协方差和完整指标可进入组合详情查看。</p><div id="source-errors"></div></details></section><section id="matrix" hidden><div class="results-heading"><div><h2>一张图，看全行业的关系</h2><p>蓝色偏负相关，金色偏正相关，灰色为样本不足。点击交叉格进入比较。</p></div><label>研究窗口<select id="matrix-window"><option value="60">60日</option><option value="120">120日</option><option value="250" selected>250日</option></select></label></div><div class="matrix-legend"><span>−1 反向</span><i></i><span>+1 同向</span></div><div id="matrix-scroll"><canvas id="matrix-canvas" role="img" aria-label="行业相关性矩阵，候选列表提供相同组合的可访问入口"></canvas></div><p id="matrix-readout" role="status">移动到交叉格查看行业和相关系数，也可在候选列表中搜索。</p></section><section id="watch" hidden><div class="results-heading"><div><h2>我的观察</h2><p>每日结果对比上次观察；相关性方向、数据状态、波动率明显变化时显示提醒。</p></div><button type="button" id="refresh-watch">检查变化</button></div><div id="watch-list"></div></section><footer>历史研究，不构成投资建议。相关性会随区间变化。</footer></main></body></html>

diff --git a/design/discovery-v2/README.md b/design/discovery-v2/README.md
@@ -1,0 +1,16 @@
+# 发现组合：研究工作台视觉改版
+
+2026-11-14。沿用原生 HTML/CSS/JS，与真实行业快照连接。
+
+参考并阅读：
+- Anthropic frontend-design：https://github.com/anthropics/skills/tree/main/skills/frontend-design
+- UI UX Pro Max：https://github.com/nextlevelbuilder/ui-ux-pro-max-skill
+- 本地 CloudBase ui-design / web-development skills。
+
+选择：以研究操作为核心，减少首屏说明层级；白色导航与内容、浅灰画布、蓝色负相关、琥珀色正相关。中文使用 Noto Sans CJK SC / Microsoft YaHei；数字使用 tabular-nums。不引入远程字体、运行时设计依赖或装饰性行情。
+
+变更：统计压成状态条；搜索、窗口、排序作为主筛选；其他筛选和计算说明可展开；五列研究表保留并把“入选理由”改成“研究线索”；零中心刻度展示真实相关系数，同跌占比展示实数比例。手机采用两列证据卡片。公共导航与主题色同步调整。
+
+验证：1440×1000 下首行从旧截图约894px前移到525px。390/760/800/1024/1440宽度无横向溢出；实际浏览器验证搜索、筛选说明展开、热力图、观察页、浅深色切换，无页面脚本错误。截图位于 ../discovery/。
+
+发布：guanlan-api 更新后为 Active。线上登录后复核发现组合页、搜索、说明展开、热力图、观察页、响应式和深色模式通过。公共主题涉及的 /compare、/stocks、/research、/data-health 在本地1440与390宽度通过，无脚本错误。仅修改展示层，数据计算与鉴权接口保持原有实现。
